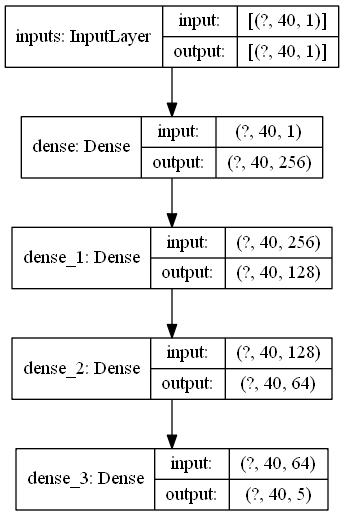
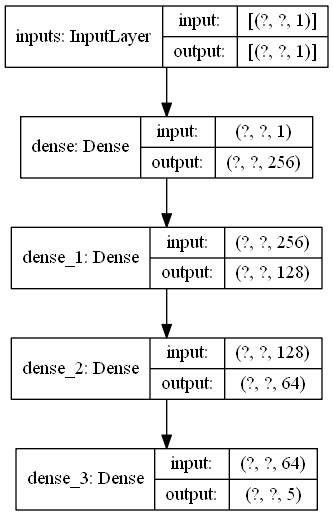
11

diff --git a/src/main/classfy.py b/src/main/classfy.py
@@ -3,36 +3,52 @@ from src.common.init_train_data import train_data
 
 x_data, y_data = train_data()
 
-# x_data = tf.convert_to_tensor(x_data)
-# y_data = tf.convert_to_tensor(y_data)
-
+x_data = tf.convert_to_tensor(x_data)
+y_data = tf.convert_to_tensor(y_data)
+print(x_data)
+print(y_data)
 layers = tf.keras.layers
-inputs = layers.Input(shape=(40, 1), name='inputs')
+inputs = layers.Input(shape=(40,1), name='inputs')
 D1 = layers.Dense(256, activation='relu')(inputs)
 D2 = layers.Dense(128, activation='relu')(D1)
 D3 = layers.Dense(64, activation='relu')(D2)
 D4 = layers.Dense(5, activation='softmax')(D3)
 Model = tf.keras.Model(inputs, D4)
 Model.summary()
-log_dir = "E:\BIYE\LOSS\classfy"
-optimizer = tf.keras.optimizers.Adam()
-loss = tf.keras.losses.BinaryCrossentropy()
-x_data = iter(x_data)
-y_data = iter(y_data)
 
-for epoch in range(14000):
 
-    batch_x = tf.convert_to_tensor(next(x_data))
-    print(batch_x)
-    batch_y = tf.convert_to_tensor(next(y_data))
-    print(batch_y)
+log_dir = "E:\BIYE\LOSS\Autoencoder"
+tensorboard_callback = tf.keras.callbacks.TensorBoard(log_dir=log_dir, histogram_freq=1, update_freq='batch')
 
-    with tf.GradientTape() as tape:
-        y_train = Model(batch_x)
-        loss_value = loss(y_train, batch_y)
-        print(loss_value)
-    grads = tape.gradient(loss_value, Model.trainable_variables)
-    optimizer.apply_gradients(zip(grads, Model.trainable_variables))
-    if epoch % 100 == 0:
-        print(epoch, 'loss_10:', float(loss_value))
-Model.save_weights('./save/classify')
+Model.compile(optimizer=tf.keras.optimizers.Adam(),
+              loss=tf.keras.losses.BinaryCrossentropy())
+# 模型可视化
+tf.keras.utils.plot_model(Model, show_shapes=True)
+# 提前结束训练      patience: 没有进步的训练轮数，在这之后训练就会被停止。           monitor: 被监测的数据。
+# early_stop =tf. keras.callbacks.EarlyStopping(patience=2, monitor='loss')
+# batch_size：整数，指定进行梯度下降时每个batch包含的样本数。训练时一个batch的样本会被计算一次梯度下降，使目标函数优化一步。
+# epochs训练总轮数
+# validation_freq如果为整数，则指定在执行新的验证运行之前要运行多少个训练时期，例如validation_freq=2，每2个时期运行一次验证。
+Model.fit(x_data, y_data, batch_size=2, epochs=15, callbacks=[tensorboard_callback])
+
+# log_dir = "E:\BIYE\LOSS\classfy"
+# optimizer = tf.keras.optimizers.Adam()
+# loss = tf.keras.losses.BinaryCrossentropy()
+# x_data = iter(x_data)
+# y_data = iter(y_data)
+# for epoch in range(14000):
+#
+#     batch_x = tf.convert_to_tensor(next(x_data))
+#     print(batch_x)
+#     batch_y = tf.convert_to_tensor(next(y_data))
+#     print(batch_y)
+#
+#     with tf.GradientTape() as tape:
+#         y_train = Model(batch_x)
+#         loss_value = loss(y_train, batch_y)
+#         print(loss_value)
+#     grads = tape.gradient(loss_value, Model.trainable_variables)
+#     optimizer.apply_gradients(zip(grads, Model.trainable_variables))
+#     if epoch % 100 == 0:
+#         print(epoch, 'loss_10:', float(loss_value))
+# Model.save_weights('./save/classify')

diff --git a/src/common/init_train_data.py b/src/common/init_train_data.py
@@ -6,12 +6,12 @@ from src.common.init_edge import get_ways
 def train_data():
     # lable格式
     y_data = []
-    lable = {"0": [1, 0, 0, 0, 0],
-             "1": [0, 1, 0, 0, 0],
-             "2": [0, 0, 1, 0, 0],
-             "3": [0, 0, 0, 1, 0],
-             "4": [0, 0, 0, 0, 1],
-             }
+    format_lable = [[1, 0, 0, 0, 0],
+             [0, 1, 0, 0, 0],
+             [0, 0, 1, 0, 0],
+             [0, 0, 0, 1, 0],
+             [0, 0, 0, 0, 1],
+             ]
     # 读数据
     # with open('ways.json', 'r') as f:
     #     data = json.load(f)
@@ -26,7 +26,8 @@ def train_data():
             if j < 8000:
                 num = j
         this_lable = lable[num - 1]
-        y_data.append(this_lable)
+        y_data.append(format_lable[int(this_lable)])
     return data, y_data
+
 
 train_data()
